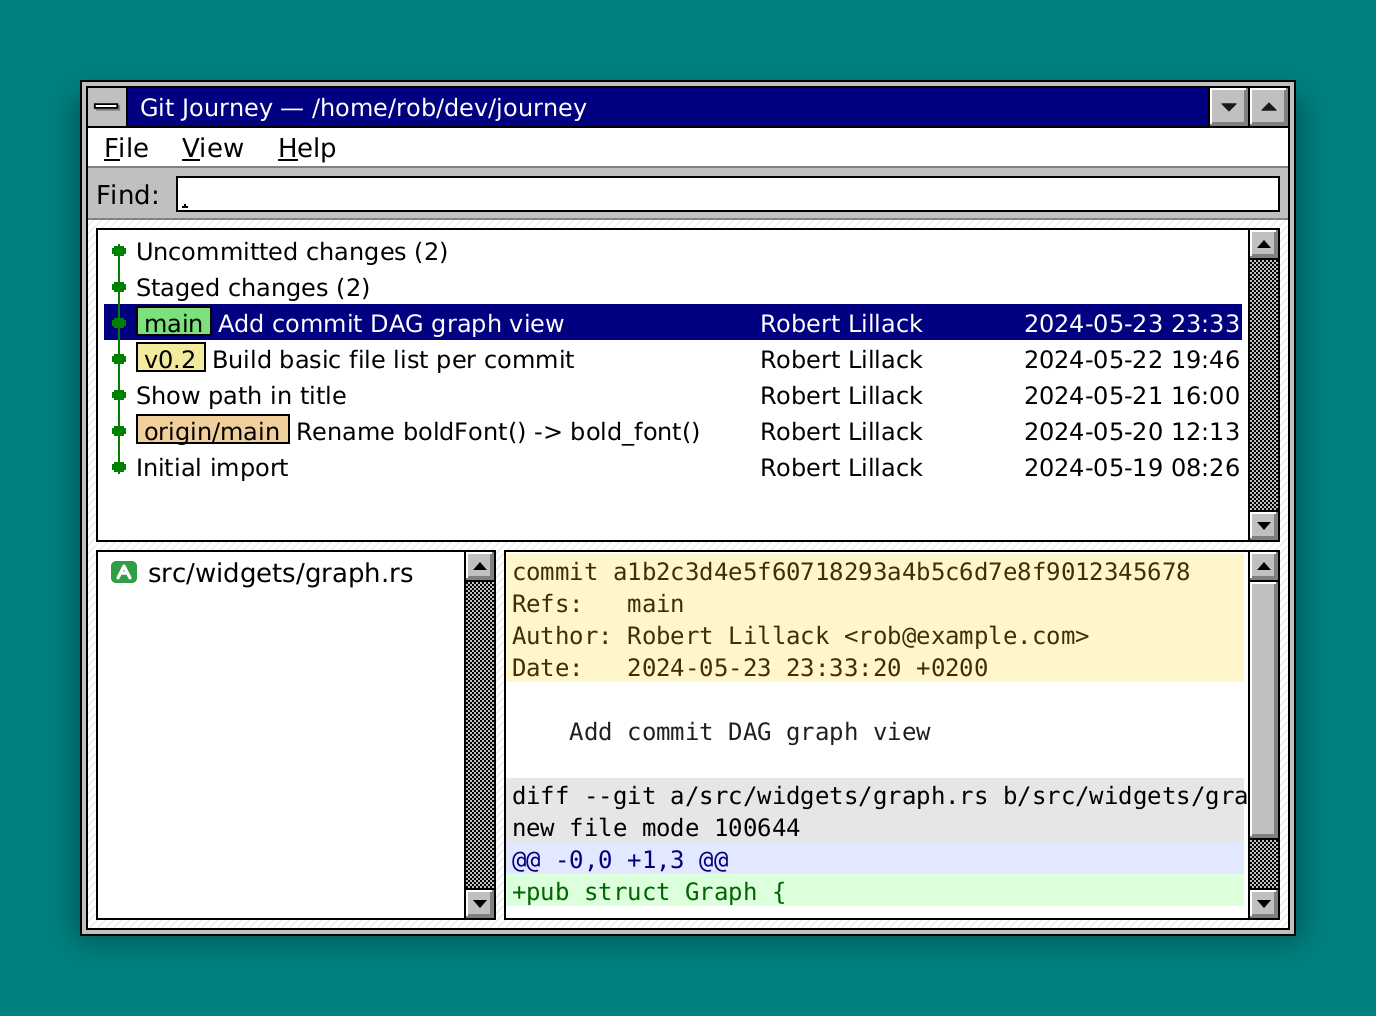
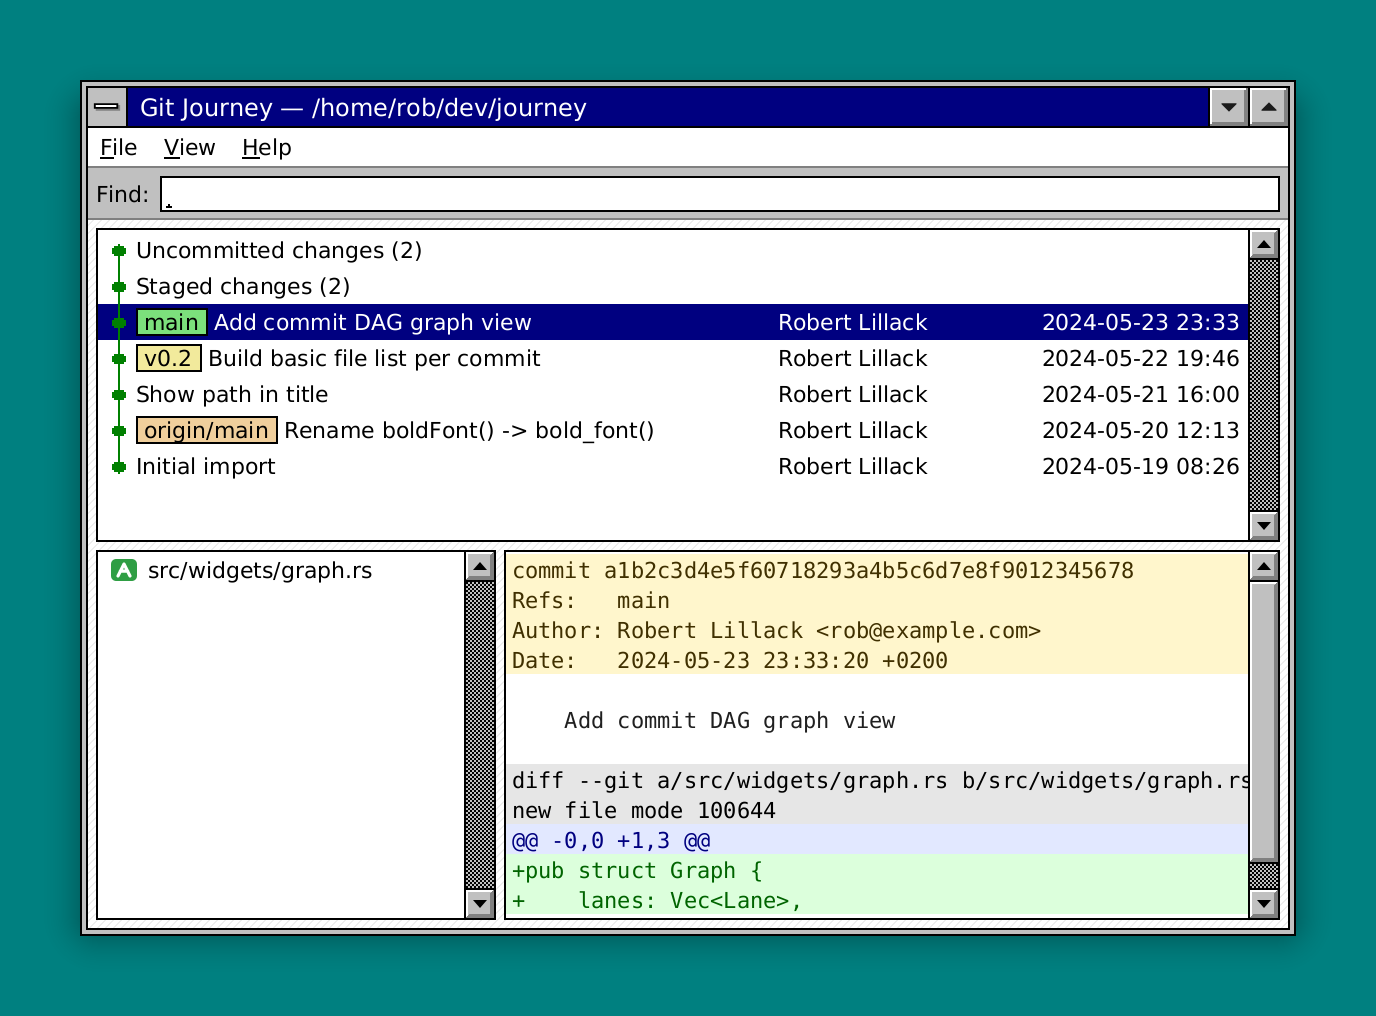
Tighter gap for find label in commit list

diff --git a/src/widgets/search_bar.rs b/src/widgets/search_bar.rs
@@ -6,13 +6,15 @@
 
 use saudade::{Color, Event, EventCtx, Painter, Rect, TextInput, Theme, Widget};
 
-const LABEL_W: i32 = 44;
 const PAD: i32 = 4;
 
 pub struct SearchBar {
     bounds: Rect,
     input: TextInput,
     label: String,
+    /// Measured width of `label`. Text can only be measured while painting,
+    /// so this holds a rough estimate until the first paint corrects it.
+    label_w: i32,
 }
 
 impl SearchBar {
@@ -21,6 +23,7 @@ impl SearchBar {
             bounds: rect,
             input: TextInput::new(Rect::new(0, 0, 0, 0)),
             label: "Find:".to_string(),
+            label_w: 28,
         };
         me.relayout();
         me
@@ -37,7 +40,7 @@ impl SearchBar {
     }
 
     fn relayout(&mut self) {
-        let x = self.bounds.x + LABEL_W;
+        let x = self.bounds.x + PAD + self.label_w + PAD;
         let input_rect = Rect::new(
             x,
             self.bounds.y + PAD,
@@ -54,6 +57,11 @@ impl Widget for SearchBar {
     }
 
     fn paint(&mut self, painter: &mut Painter, theme: &Theme) {
+        let label_w = painter.measure_text(&self.label, theme.font_size).w;
+        if label_w != self.label_w {
+            self.label_w = label_w;
+            self.relayout();
+        }
         painter.fill_rect(self.bounds, theme.face);
         let label_y = self.bounds.y + (self.bounds.h - theme.font_size as i32) / 2 - 1;
         painter.text(
